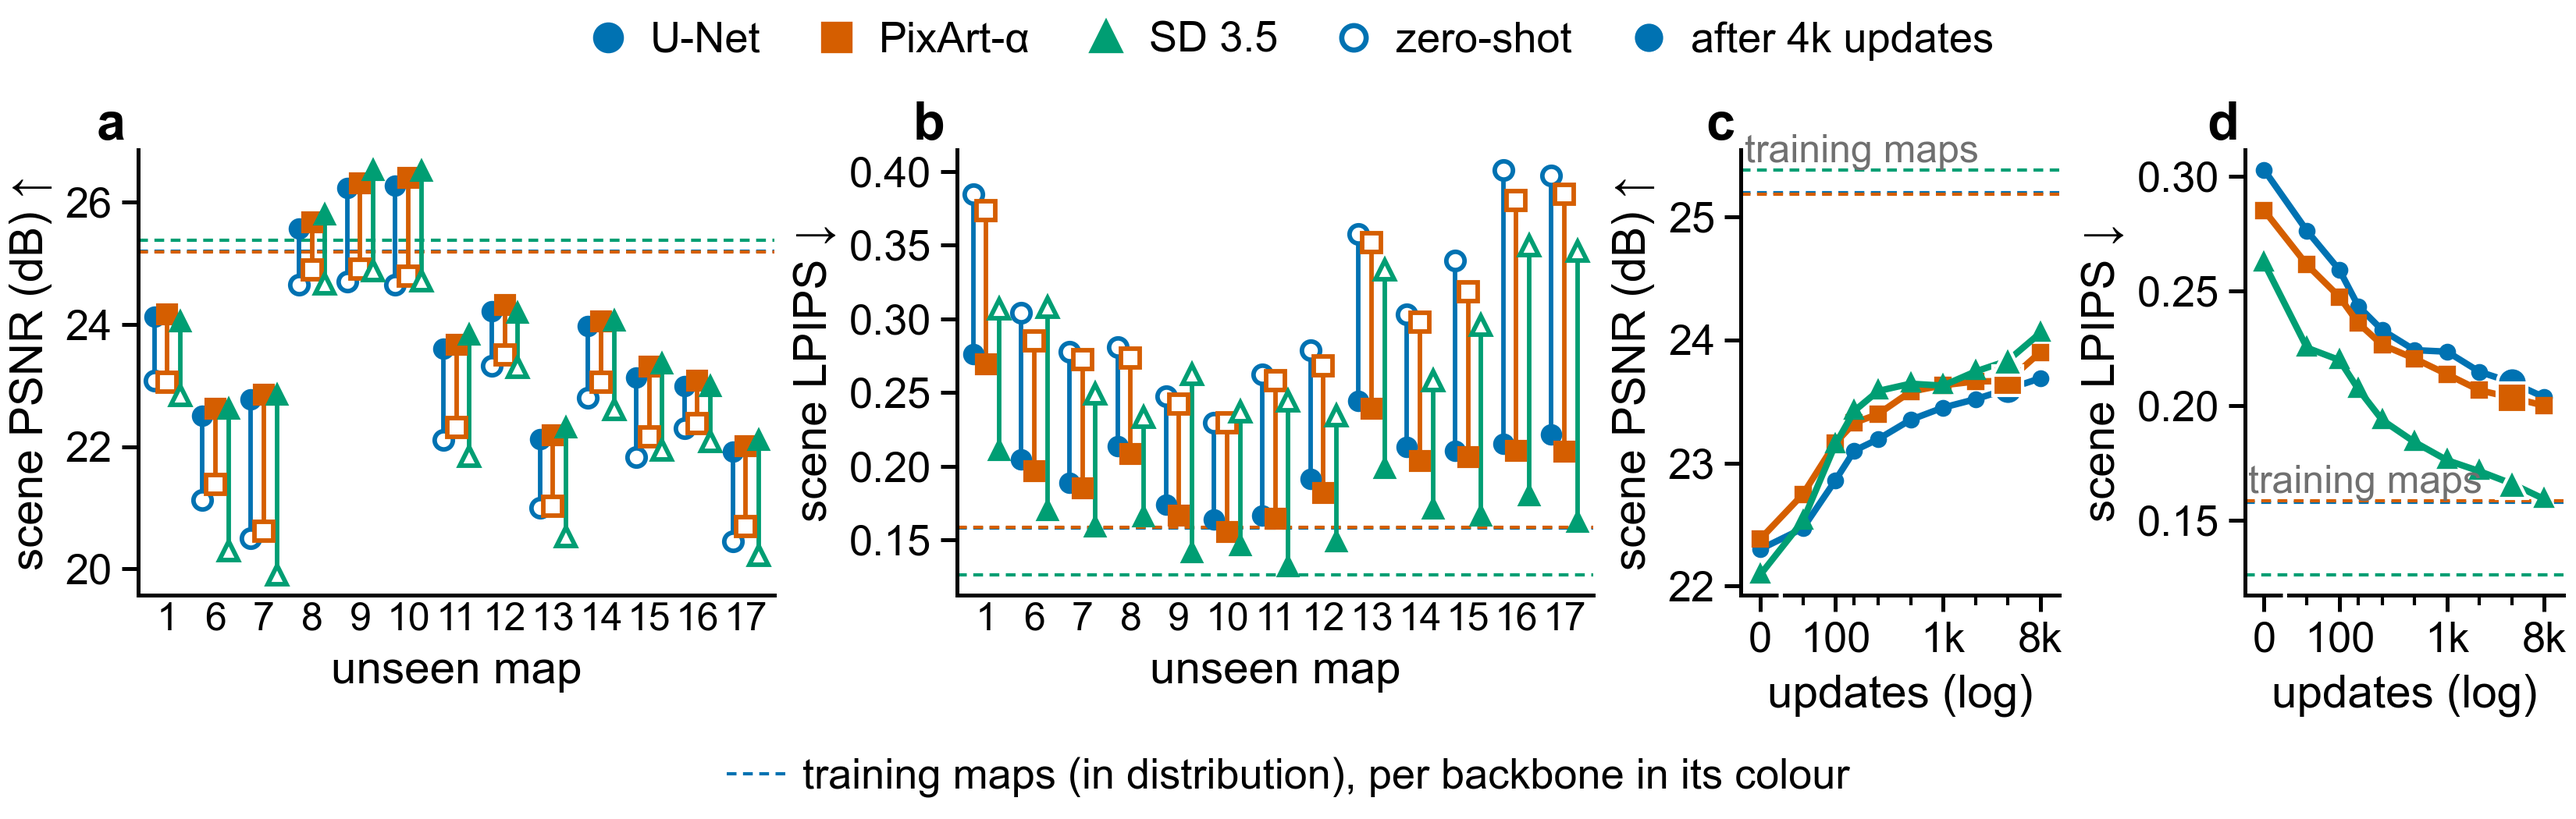
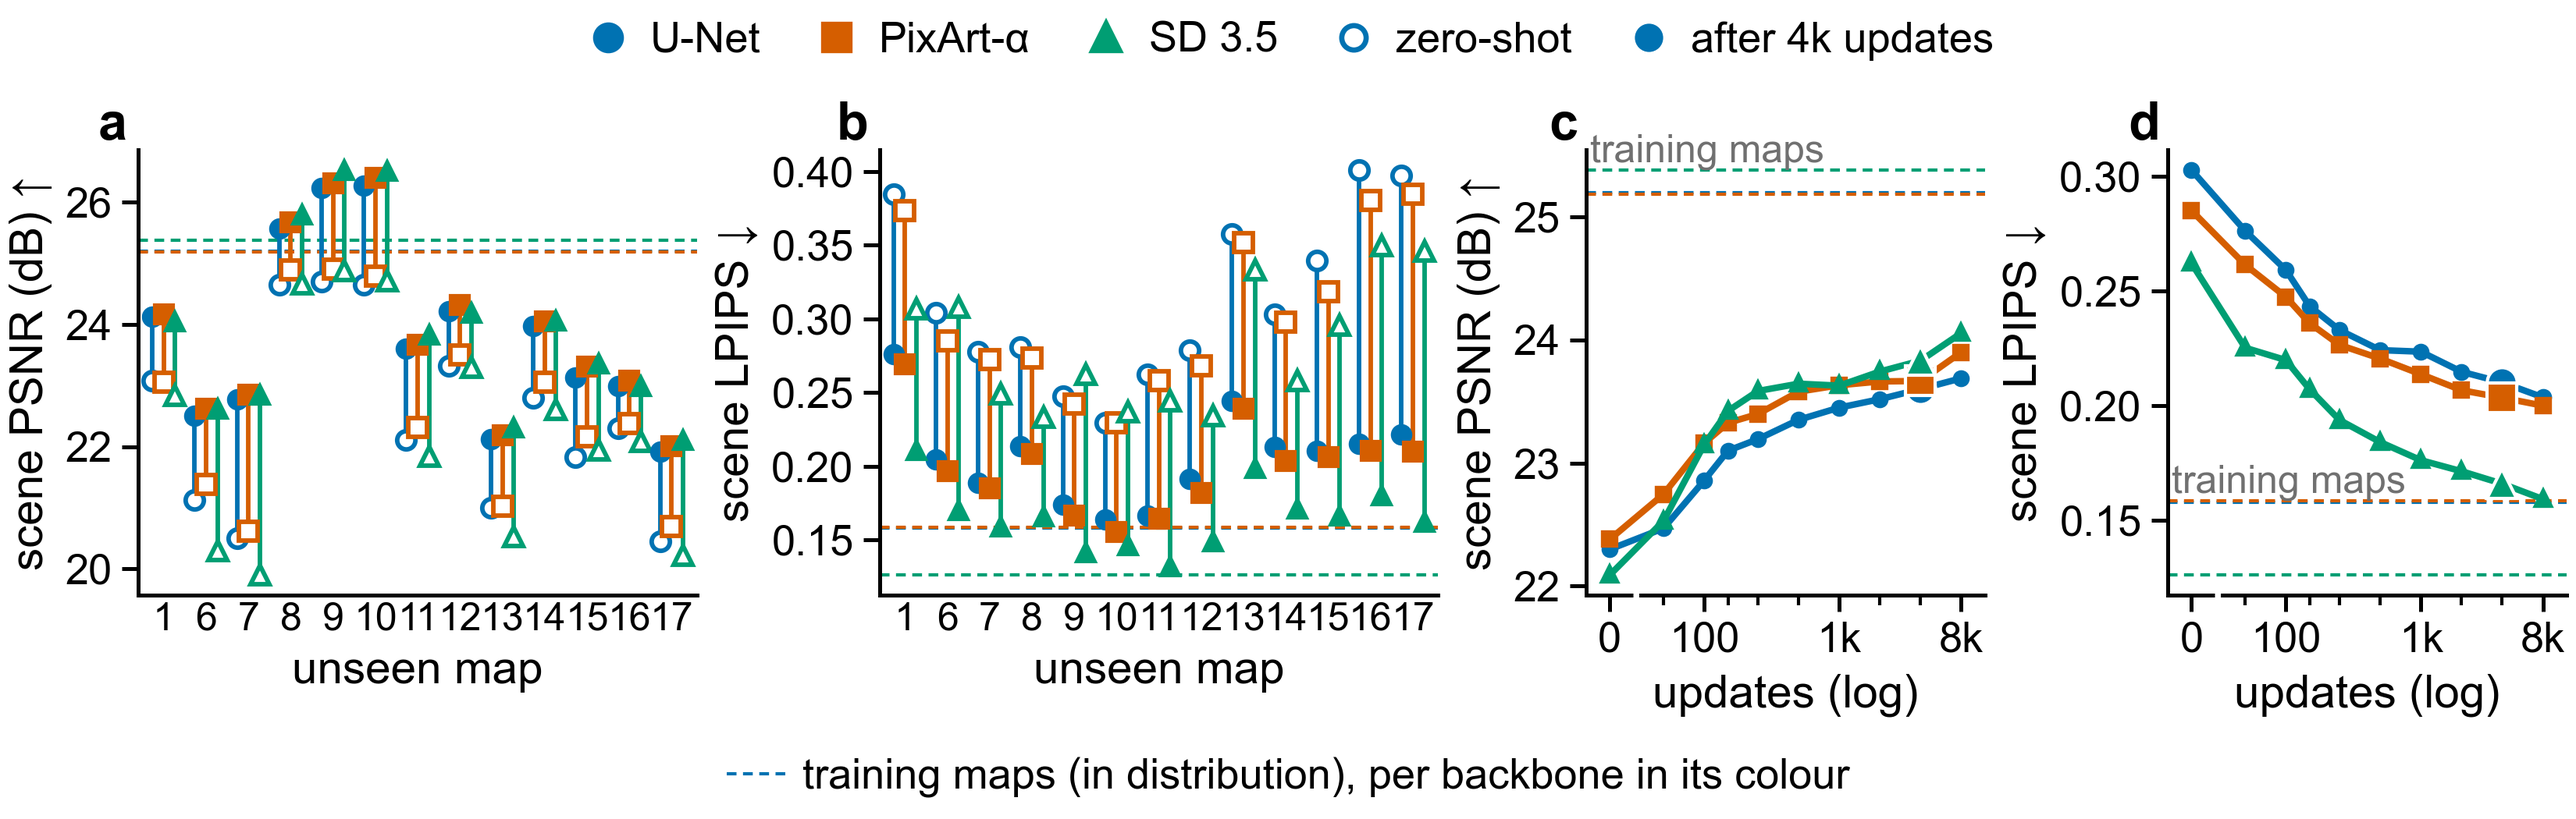
widen the curve panels in the one-row figure 3

diff --git a/paper/make_raw_figures.py b/paper/make_raw_figures.py
@@ -1443,7 +1443,7 @@ def fig_row_v2(arenas, backbones, curves, levels, out_dir, headline=HEADLINE_STE
     if tall:
         fig, (pa, la, pc, lc) = fs.new_figure(SIZES[stem], ncols=2, nrows=2, wspace=0.08, hspace=0.08)
     else:
-        fig, (pa, la, pc, lc) = fs.new_figure(SIZES[stem], ncols=4, width_ratios=[1.6, 1.6, 0.8, 0.8], wspace=0.02)
+        fig, (pa, la, pc, lc) = fs.new_figure(SIZES[stem], ncols=4, width_ratios=[1.4, 1.4, 1.0, 1.0], wspace=0.02)
     # three marks per arena slot: full-size marks fit only when the panel is two rows' width
     marker = fs.MARKER_SIZE if tall else 2.8
     for ax, key in ((pa, "psnr"), (la, "lpips")):
